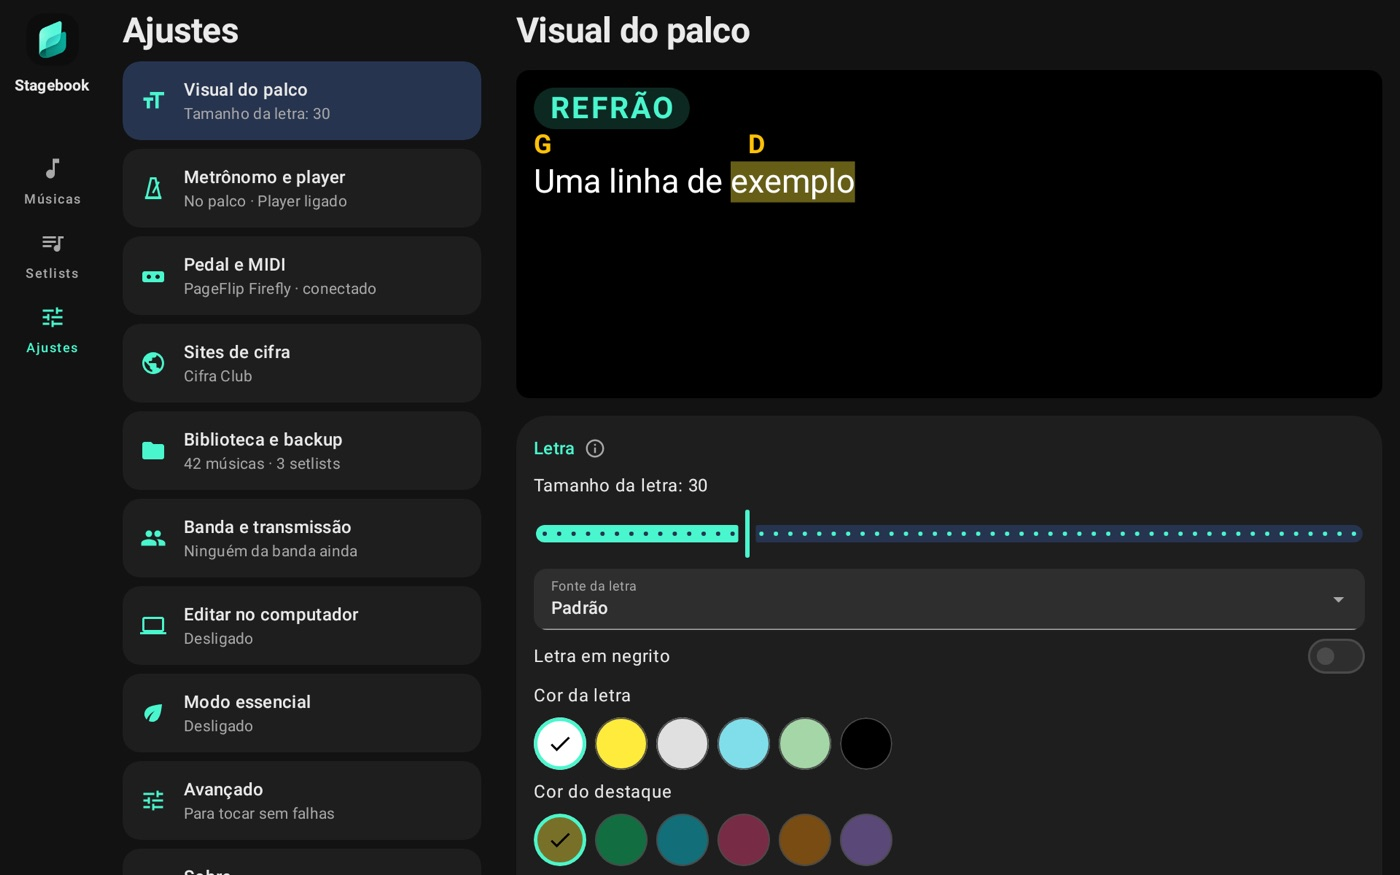
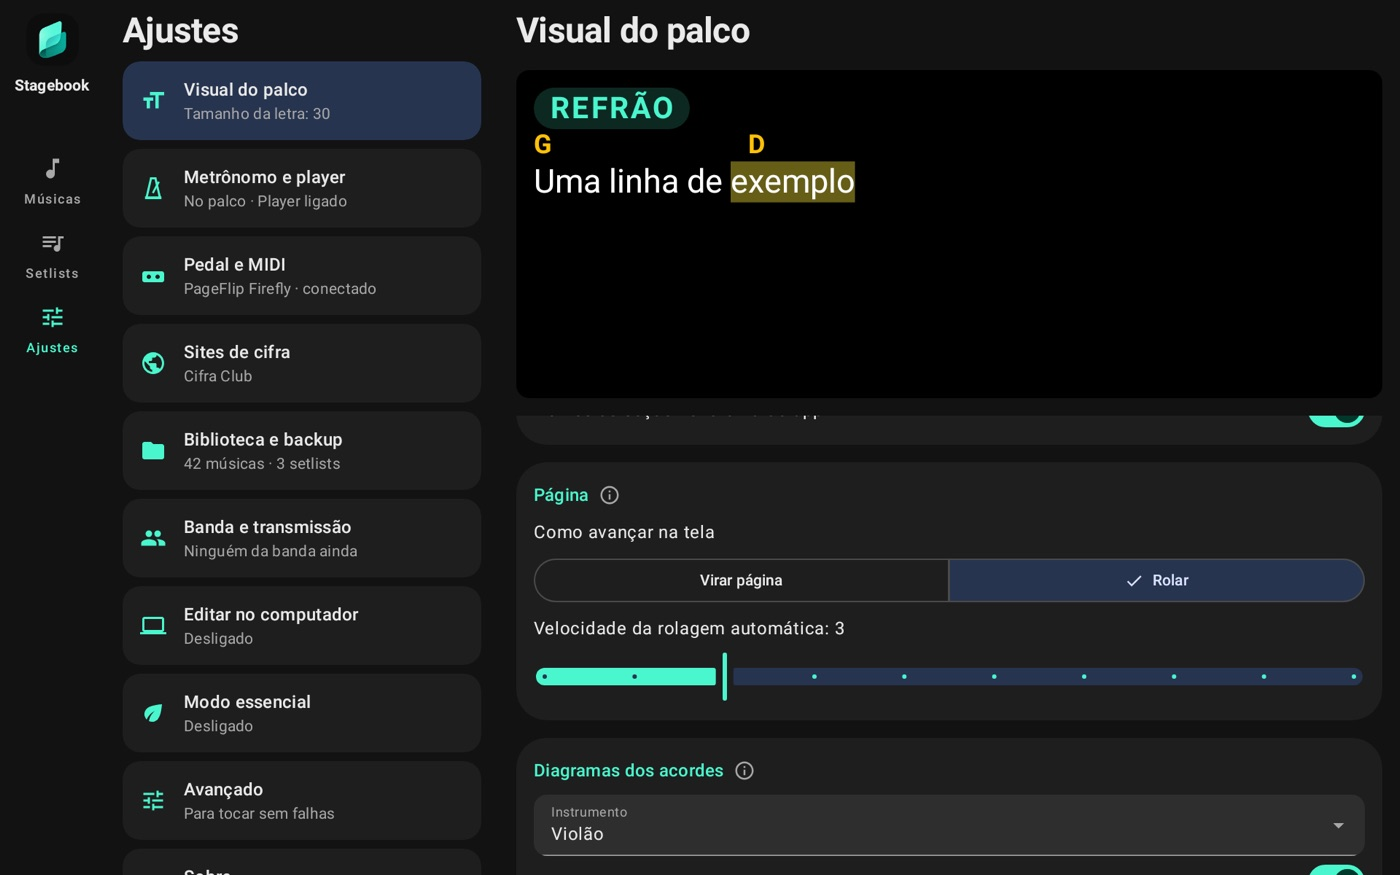
Settings captures show the card the help names · As capturas dos ajustes mostram o cartão que a ajuda cita
EN: On the tablet, Settings opens Stage look by default, so tablet_5_ajustes_secoes and
tablet_5_ajustes_rolar rendered the top of the same screen as tablet_5_ajustes: the three
help images were byte-identical, and Section titles and the Scroll speed sat below the fold.
The two tests now scroll to their card (Section titles down to its last switch; the Page card
in Scroll mode down to its speed slider), through one helper. No other help image repeats.

PT: No tablet, Ajustes abre Visual do palco por padrão, então tablet_5_ajustes_secoes e
tablet_5_ajustes_rolar saíam com o topo da mesma tela de tablet_5_ajustes: as três imagens da
ajuda eram idênticas, e Títulos de seção e a velocidade do Rolar ficavam fora da tela. Os dois
testes agora rolam até o cartão (Títulos de seção até a última chave; o cartão Página no modo
Rolar até a velocidade), por um ajudante só. Nenhuma outra imagem da ajuda se repete.

Release-Note: none

Changed region(s): [[0.3686, 0.4937, 0.9829, 0.9874], [0.9214, 0.9874, 0.9829, 1.0], [0.9214, 0.4629, 0.9829, 0.4937]]

diff --git a/app/src/test/java/br/app/stagebook/ScreenshotTest.kt b/app/src/test/java/br/app/stagebook/ScreenshotTest.kt
@@ -647,9 +647,9 @@ class ScreenshotTest {
 
     // the strip in context: below a follower's stage, with the current song missing for the bass player. T28: bigger
     // section titles, with a light background, and the size adjustable in Settings → Lyrics sections
-    @Test fun settingsSectionsTablet() = shoot("tablet_5_ajustes_secoes") {
-        HomeScaffold(HomeTab.SETTINGS, {}) { SettingsScreen(settings, SettingsActions(), it, section = SettingsSection.LYRICS) }
-    }
+    // the tablet opens Lyrics by default, so without scrolling this was the same picture as tablet_5_ajustes: scroll the
+    // Section titles card into view, down to its last switch
+    @Test fun settingsSectionsTablet() = shootLyricsAt("tablet_5_ajustes_secoes", settings, str(R.string.settings_translate_sections), extraUp = 50f)
 
     @Test fun conductOnStage() = shoot("tablet_6_palco_acompanhando") {
         androidx.compose.foundation.layout.Column {
@@ -870,10 +870,25 @@ class ScreenshotTest {
         compose.onRoot().captureRoboImage("$SHOTS_DIR/celular_7_palco_zoom.png")
     }
 
-    @Test fun settingsLyricsScrollTablet() = shoot("tablet_5_ajustes_rolar") {
-        HomeScaffold(HomeTab.SETTINGS, {}) {
-            SettingsScreen(settings.copy(look = settings.look.copy(stageMode = br.app.stagebook.data.model.StageMode.SCROLL)), SettingsActions(), it, section = SettingsSection.LYRICS)
+    // the Page card in Scroll mode, scrolled to its speed slider (the top of Lyrics looks the same in both modes)
+    @Test fun settingsLyricsScrollTablet() {
+        val look = settings.look.copy(stageMode = br.app.stagebook.data.model.StageMode.SCROLL)
+        shootLyricsAt("tablet_5_ajustes_rolar", settings.copy(look = look), str(R.string.settings_auto_scroll, look.autoScroll), extraUp = 200f)
+    }
+
+    /** Settings → Lyrics with [text] scrolled into view (and [extraUp] px more), so the capture shows that card. */
+    private fun shootLyricsAt(name: String, state: SettingsUiState, text: String, extraUp: Float = 0f) {
+        compose.setContent {
+            StagebookTheme {
+                Surface(color = MaterialTheme.colorScheme.background) {
+                    HomeScaffold(HomeTab.SETTINGS, {}) { SettingsScreen(state, SettingsActions(), it, section = SettingsSection.LYRICS) }
+                }
+            }
         }
+        compose.onNodeWithText(text).performScrollTo()
+        if (extraUp > 0f) compose.onRoot().performTouchInput { swipeUp(startY = centerY, endY = centerY - extraUp) }
+        compose.waitForIdle()
+        compose.onRoot().captureRoboImage("$SHOTS_DIR/$name.png")
     }
 
     // T22: tablature on stage (monospace, fitting the column)
